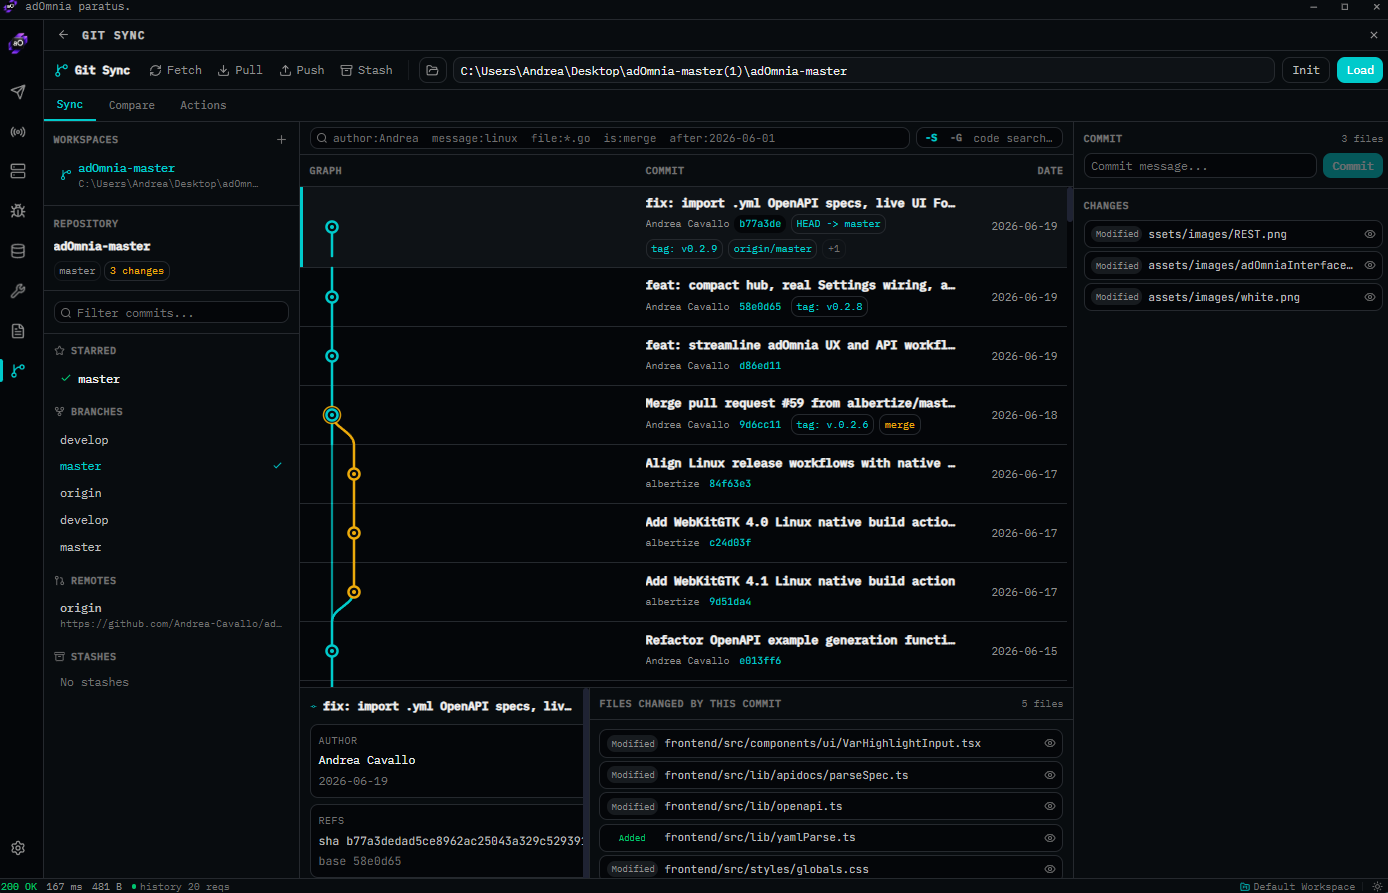
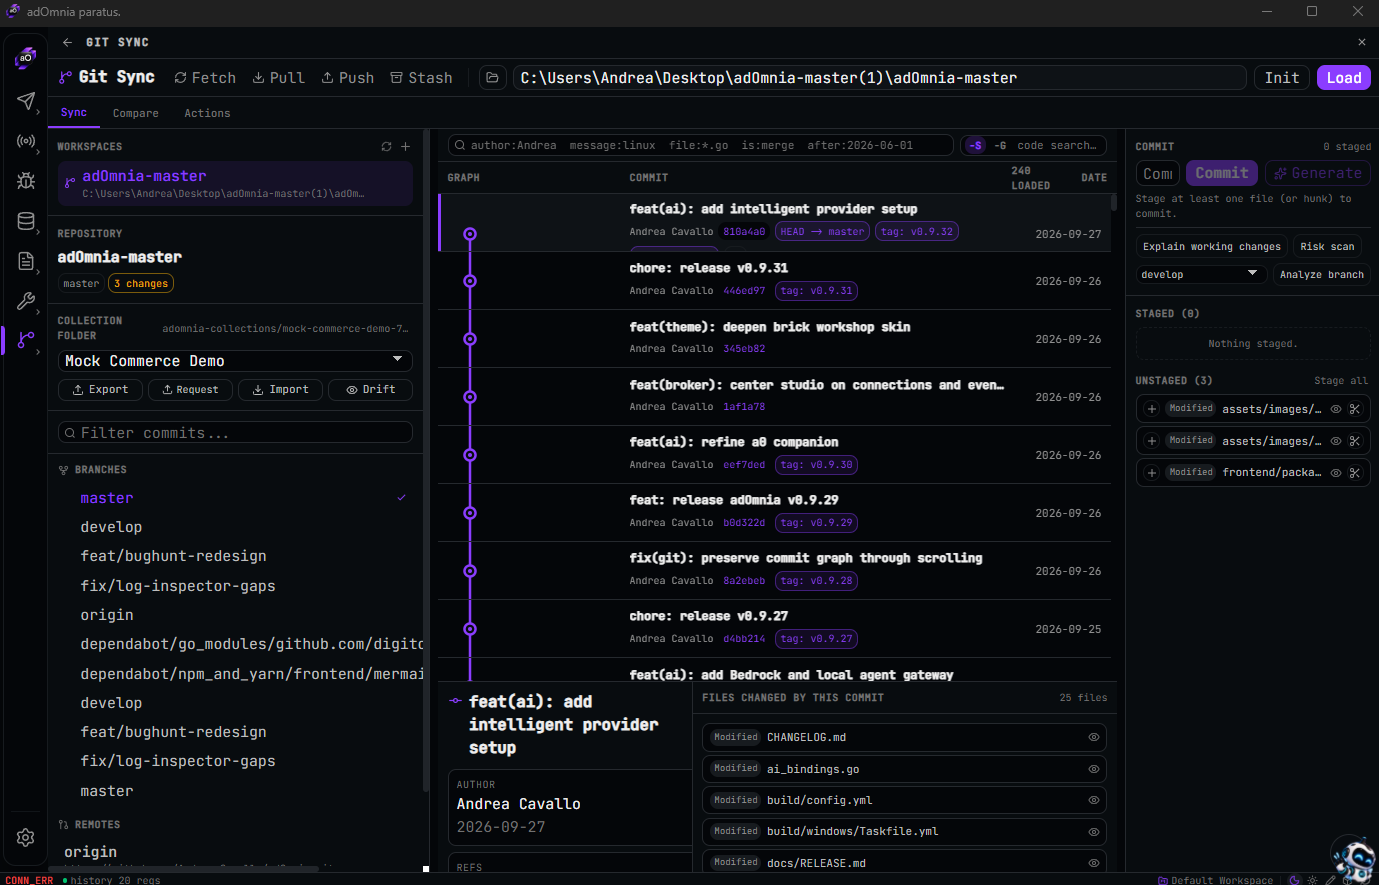
feat(ai): let a0 create workspace requests

diff --git a/frontend/src/lib/aiCompanion.ts b/frontend/src/lib/aiCompanion.ts
@@ -1,4 +1,4 @@
-import type { Collection, RequestItem, TreeNode } from '@/lib/types'
+import { blankKVRow, blankRequest, type Collection, type HttpMethod, type RequestItem, type TreeNode } from '@/lib/types'
 import type { AppSettings } from '@/stores/settings'
 
 export type CompanionMood = 'happy' | 'thinking' | 'concerned'
@@ -11,11 +11,21 @@ export interface HeaderSuggestion {
   reason?: string
 }
 
+export interface CreateRequestAction {
+  type: 'create-request'
+  name: string
+  method: HttpMethod
+  url: string
+  headers: HeaderSuggestion[]
+  body?: string
+}
+
 export interface CompanionReply {
   reply: string
   mood: CompanionMood
   headerSuggestions: HeaderSuggestion[]
   actions: Array<'open-flow' | 'open-docs'>
+  workspaceActions: CreateRequestAction[]
 }
 
 /** a0 is available only for a provider/model pair the user has explicitly tested. */
@@ -75,6 +85,65 @@ function safeHeaders(value: unknown): HeaderSuggestion[] {
   }).slice(0, 8)
 }
 
+const HTTP_METHODS = new Set<HttpMethod>(['GET', 'QUERY', 'POST', 'PUT', 'PATCH', 'DELETE', 'HEAD', 'OPTIONS', 'CONNECT', 'TRACE', 'WS', 'SOAP'])
+
+function safeRequestURL(value: unknown): string {
+  if (typeof value !== 'string') return ''
+  const url = value.trim().slice(0, 4096)
+  if (!url || /[\r\n]/.test(url)) return ''
+  if (url.includes('{{')) return url
+  return /^(?:https?|wss?):\/\//i.test(url) ? url : ''
+}
+
+function safeWorkspaceActions(value: unknown): CreateRequestAction[] {
+  if (!Array.isArray(value)) return []
+  return value.flatMap((item) => {
+    if (!item || typeof item !== 'object') return []
+    const candidate = item as Record<string, unknown>
+    if (candidate.type !== 'create-request') return []
+    const method = typeof candidate.method === 'string' ? candidate.method.toUpperCase() as HttpMethod : 'GET'
+    const url = safeRequestURL(candidate.url)
+    if (!HTTP_METHODS.has(method) || !url) return []
+    const rawName = typeof candidate.name === 'string' ? candidate.name.trim() : ''
+    const name = rawName.replace(/[\r\n\t]+/g, ' ').slice(0, 120) || `${method} request`
+    const body = typeof candidate.body === 'string' ? candidate.body.slice(0, 1_000_000) : undefined
+    return [{ type: 'create-request' as const, name, method, url, headers: safeHeaders(candidate.headers), body }]
+  }).slice(0, 3)
+}
+
+export function materializeCompanionRequest(action: CreateRequestAction): RequestItem {
+  const request = blankRequest(action.method, action.name)
+  request.url = action.url
+  request.headers = action.headers.length
+    ? action.headers.map((header) => ({ ...blankKVRow(), key: header.key, value: header.value, enabled: true }))
+    : request.headers
+  if (action.body !== undefined && !['GET', 'HEAD'].includes(action.method)) {
+    request.bodies[0] = { ...request.bodies[0], type: 'raw', raw: action.body, lang: 'json' }
+  }
+  return request
+}
+
+/** Fast, deterministic handling for the common root greeting-request command.
+ * The model still handles arbitrary request designs through workspaceActions,
+ * but this exact intent must work even when a provider ignores the JSON schema. */
+export function inferCompanionRequestAction(value: string): CreateRequestAction | null {
+  const text = value.normalize('NFD').replace(/[\u0300-\u036f]/g, '').toLowerCase()
+  if (/\b(?:non|not|don\s*t|do not|never)\b.{0,40}\b(?:crea|creare|create|add)\b/.test(text)) return null
+  const asksToCreate = /\b(?:crea|creami|creare|aggiungi|nuov[ao]|create|add|new)\b/.test(text)
+  const describesRequest = /\b(?:api|endpoint|request|richiesta)\b/.test(text)
+  const asksForRoot = /(?:fuori|outside).{0,20}(?:collection|collezion)|(?:workspace\s+root|root\s+level|livello\s+root)/.test(text)
+  const isGreeting = /\b(?:saluta|saluto|ciao|hello|greeting|greet)\b/.test(text)
+  if (!asksToCreate || !describesRequest || !asksForRoot || !isGreeting) return null
+  const explicitURL = value.match(/https?:\/\/[^\s)\]}]+/i)?.[0]
+  return {
+    type: 'create-request',
+    name: 'Greeting API',
+    method: 'GET',
+    url: explicitURL ?? 'http://127.0.0.1:3000/hello',
+    headers: [{ key: 'Accept', value: 'application/json' }],
+  }
+}
+
 export function parseCompanionReply(raw: string): CompanionReply {
   try {
     const parsed = JSON.parse(unwrapJSON(raw)) as Record<string, unknown>
@@ -87,9 +156,10 @@ export function parseCompanionReply(raw: string): CompanionReply {
       mood,
       headerSuggestions: safeHeaders(parsed.headerSuggestions),
       actions: [...new Set(actions)],
+      workspaceActions: safeWorkspaceActions(parsed.workspaceActions),
     }
   } catch {
-    return { reply: raw.trim() || 'I could not read that response. Please try again.', mood: 'concerned', headerSuggestions: [], actions: [] }
+    return { reply: raw.trim() || 'I could not read that response. Please try again.', mood: 'concerned', headerSuggestions: [], actions: [], workspaceActions: [] }
   }
 }
 
@@ -103,7 +173,7 @@ function requestOutline(nodes: TreeNode[], output: string[], prefix = '') {
   }
 }
 
-export function buildCompanionPrompt(message: string, collections: Collection[], activeRequest?: RequestItem): { system: string; user: string } {
+export function buildCompanionPrompt(message: string, collections: Collection[], activeRequest?: RequestItem, workspaceActionsEnabled = false): { system: string; user: string } {
   const outline: string[] = []
   collections.forEach((collection) => requestOutline(collection.children, outline, `${collection.name}/`))
   const activeContext = activeRequest
@@ -113,11 +183,16 @@ export function buildCompanionPrompt(message: string, collections: Collection[],
     system: [
       'You are a0, the friendly adOmnia desktop API assistant.',
       'Always reply in English. Be generic and never assume or invent the user’s name.',
-      'adOmnia is local-first. Never claim you performed an action. Explain proposed changes and require the user to click an explicit UI action before any mutation.',
+      workspaceActionsEnabled
+        ? 'Agent actions are enabled. When the user explicitly asks to create a request outside collections, return one create-request workspace action. Do not merely explain which button the user should click.'
+        : 'Agent actions are disabled. Do not return workspaceActions or claim that you changed the workspace; explain that Agent actions can be enabled in Settings → AI Engine.',
       'You may help design flows, explain APIs, improve OpenAPI documentation, and suggest headers.',
       'Never request or expose credentials, tokens, cookie values, or secrets. Suggest placeholders such as {{API_TOKEN}} instead.',
-      'Return only JSON: {"reply":"concise Markdown-free text","mood":"happy|thinking|concerned","headerSuggestions":[{"key":"Header-Name","value":"value or {{PLACEHOLDER}}","reason":"why"}],"actions":["open-flow"|"open-docs"]}.',
+      'Return only JSON: {"reply":"concise Markdown-free text","mood":"happy|thinking|concerned","headerSuggestions":[{"key":"Header-Name","value":"value or {{PLACEHOLDER}}","reason":"why"}],"actions":["open-flow"|"open-docs"],"workspaceActions":[{"type":"create-request","name":"Request name","method":"GET","url":"http://127.0.0.1:3000/hello","headers":[],"body":"optional body"}]}.',
       'Only suggest headers when the user explicitly asks for them. Use actions only when the user explicitly asks for a flow or API documentation.',
+      workspaceActionsEnabled
+        ? 'Use workspaceActions only for an explicit mutation request. A create-request action is saved at workspace root, outside user collections, and opened automatically.'
+        : 'Return an empty workspaceActions array.',
     ].join('\n'),
     user: `User request:\n${message}\n\nWorkspace API outline (method, URL and names only):\n${outline.join('\n') || '(no saved requests)' }${activeContext}`,
   }

diff --git a/frontend/src/components/assistant/AICompanion.tsx b/frontend/src/components/assistant/AICompanion.tsx
@@ -2,7 +2,7 @@ import { useEffect, useMemo, useRef, useState } from 'react'
 import { ChevronDown, FileText, Loader2, Maximize2, Minimize2, Send, WandSparkles, X } from 'lucide-react'
 import * as AIEngine from '@/wailsjs/go/main/AIEngine'
 import { ensureAIConfigured } from '@/lib/aiEngine'
-import { buildCompanionPrompt, COMPANION_WELCOME, isAICompanionAvailable, isBugHuntPlayIntent, parseCompanionReply, type CompanionMood, type HeaderSuggestion } from '@/lib/aiCompanion'
+import { buildCompanionPrompt, COMPANION_WELCOME, inferCompanionRequestAction, isAICompanionAvailable, isBugHuntPlayIntent, materializeCompanionRequest, parseCompanionReply, type CompanionMood, type HeaderSuggestion } from '@/lib/aiCompanion'
 import { blankKVRow } from '@/lib/types'
 import { useAppStore } from '@/stores/app'
 import { useCollectionsStore } from '@/stores/collections'
@@ -35,9 +35,11 @@ function Sprite({ mood, loading, size, resting, greeting = false }: { mood: Comp
 export function AICompanion() {
   const ai = useSettingsStore((state) => state.settings.ai)
   const collections = useCollectionsStore((state) => state.collections)
+  const addQuickRequest = useCollectionsStore((state) => state.addQuickRequest)
   const activeTabId = useTabsStore((state) => state.activeTabId)
   const tabs = useTabsStore((state) => state.tabs)
   const updateRequest = useTabsStore((state) => state.updateRequest)
+  const openTab = useTabsStore((state) => state.openTab)
   const setActiveRail = useAppStore((state) => state.setActiveRail)
   const [open, setOpen] = useState(false)
   const [expanded, setExpanded] = useState(false)
@@ -101,14 +103,41 @@ export function AICompanion() {
       document.dispatchEvent(new Event('adomnia:open-bug-hunt'))
       return
     }
+    const localRequestAction = ai.workspaceActionsEnabled ? inferCompanionRequestAction(text) : null
+    if (localRequestAction) {
+      const request = materializeCompanionRequest(localRequestAction)
+      const collectionId = addQuickRequest(request)
+      openTab(request, collectionId)
+      setActiveRail('collections')
+      setMessages((current) => [...current, userMessage, {
+        id: crypto.randomUUID(),
+        role: 'assistant',
+        mood: 'happy',
+        text: 'Created the Greeting API at workspace root and opened it for review.',
+      }])
+      return
+    }
     setMessages((current) => [...current, userMessage])
     setLoading(true)
     try {
-      const prompt = buildCompanionPrompt(text, collections, activeTab?.request)
+      const prompt = buildCompanionPrompt(text, collections, activeTab?.request, ai.workspaceActionsEnabled)
       await ensureAIConfigured()
       const raw = await AIEngine.Complete(prompt.system, prompt.user, 1800)
       const reply = parseCompanionReply(raw)
-      setMessages((current) => [...current, { id: crypto.randomUUID(), role: 'assistant', text: reply.reply, mood: reply.mood, headers: reply.headerSuggestions, actions: reply.actions }])
+      let createdRequests = 0
+      if (ai.workspaceActionsEnabled) {
+        for (const action of reply.workspaceActions) {
+          const request = materializeCompanionRequest(action)
+          const collectionId = addQuickRequest(request)
+          openTab(request, collectionId)
+          createdRequests += 1
+        }
+      }
+      if (createdRequests > 0) setActiveRail('collections')
+      const actionResult = createdRequests > 0
+        ? `\n\nCreated ${createdRequests === 1 ? 'the request' : `${createdRequests} requests`} at workspace root and opened ${createdRequests === 1 ? 'it' : 'the last one'} for review.`
+        : ''
+      setMessages((current) => [...current, { id: crypto.randomUUID(), role: 'assistant', text: `${reply.reply}${actionResult}`, mood: reply.mood, headers: reply.headerSuggestions, actions: reply.actions }])
     } catch (error) {
       setMessages((current) => [...current, { id: crypto.randomUUID(), role: 'assistant', mood: 'concerned', text: `I couldn’t reach the configured AI provider. ${error instanceof Error ? error.message : String(error)}` }])
     } finally {

diff --git a/frontend/src/lib/aiCompanion.test.ts b/frontend/src/lib/aiCompanion.test.ts
@@ -1,11 +1,51 @@
 import { describe, expect, it } from 'vitest'
-import { buildCompanionPrompt, COMPANION_WELCOME, isAICompanionAvailable, isBugHuntPlayIntent, parseCompanionReply } from './aiCompanion'
+import { buildCompanionPrompt, COMPANION_WELCOME, inferCompanionRequestAction, isAICompanionAvailable, isBugHuntPlayIntent, materializeCompanionRequest, parseCompanionReply } from './aiCompanion'
 import { blankRequest } from './types'
 
 describe('a0 companion protocol', () => {
   it('uses a generic English welcome and requires English replies', () => {
     expect(COMPANION_WELCOME).toBe('Hi — what would you like to work on?')
     expect(buildCompanionPrompt('ciao', [], undefined).system).toContain('Always reply in English')
+  })
+
+  it('authorizes structured workspace mutations only when agent actions are enabled', () => {
+    const readOnly = buildCompanionPrompt('Create a greeting API.', [], undefined, false).system
+    const agent = buildCompanionPrompt('Create a greeting API.', [], undefined, true).system
+
+    expect(readOnly).toContain('Do not return workspaceActions')
+    expect(agent).toContain('create-request')
+    expect(agent).toContain('explicitly asks')
+  })
+
+  it('materializes a safe root request from a structured assistant action', () => {
+    const reply = parseCompanionReply(JSON.stringify({
+      reply: 'Created a greeting request.',
+      mood: 'happy',
+      headerSuggestions: [],
+      actions: [],
+      workspaceActions: [{
+        type: 'create-request',
+        name: 'Greeting API',
+        method: 'GET',
+        url: 'http://127.0.0.1:3000/hello',
+        headers: [{ key: 'Accept', value: 'application/json' }],
+      }],
+    }))
+
+    expect(reply.workspaceActions).toHaveLength(1)
+    const request = materializeCompanionRequest(reply.workspaceActions[0])
+    expect(request).toMatchObject({ name: 'Greeting API', method: 'GET', url: 'http://127.0.0.1:3000/hello' })
+    expect(request.headers[0]).toMatchObject({ key: 'Accept', value: 'application/json', enabled: true })
+  })
+
+  it('handles the explicit Italian greeting-request command without relying on the provider', () => {
+    expect(inferCompanionRequestAction('Creami una API che ti saluta, nuova fuori dalle collection')).toMatchObject({
+      type: 'create-request',
+      name: 'Greeting API',
+      method: 'GET',
+      url: 'http://127.0.0.1:3000/hello',
+    })
+    expect(inferCompanionRequestAction('Non creare una greeting API fuori dalle collection')).toBeNull()
   })
 
   it('accepts only safe, user-reviewable actions and headers', () => {

diff --git a/frontend/src/components/settings/AISettings.tsx b/frontend/src/components/settings/AISettings.tsx
@@ -369,6 +369,13 @@ export function AISettings() {
         </div>
       </section>
 
+      <section className="grid grid-cols-[minmax(220px,1fr)_minmax(520px,2fr)] items-center border-b border-border-1 px-8 py-4 max-lg:grid-cols-1 max-lg:gap-3 max-lg:px-5">
+        <div><h3 className="text-sm font-semibold text-text-1">Agent actions</h3><p className="mt-1 text-[11px] text-text-4">Choose whether a0 may act on explicit workspace requests.</p></div>
+        <div className="rounded-lg border border-border-2 bg-surface-1 px-4">
+          <Toggle label="Allow a0 to create and update workspace items" desc="When enabled, explicit chat requests can create root API requests and open them for review. Credentials and secret values remain protected." checked={ai.workspaceActionsEnabled} onChange={(workspaceActionsEnabled) => updateAi({ workspaceActionsEnabled })} />
+        </div>
+      </section>
+
       <div className="grid min-h-0 flex-1 grid-cols-[290px_minmax(0,1fr)] max-lg:grid-cols-1">
         <aside className="border-r border-border-1 px-6 py-6 max-lg:border-b max-lg:border-r-0">
           <h3 className="text-base font-semibold text-text-1">Providers</h3><p className="mt-1 text-[11px] text-text-4">Choose a provider to configure.</p>

diff --git a/frontend/src/stores/settings.ts b/frontend/src/stores/settings.ts
@@ -125,6 +125,8 @@ export interface AppSettings {
     gatewayEnabled: boolean
     /** Stable loopback port used by OpenCode, Pi, and other local clients. */
     gatewayPort: number
+    /** Explicit permission for a0 to apply supported mutations to the local workspace. */
+    workspaceActionsEnabled: boolean
   }
   features: {
     pluginsEnabled: boolean
@@ -179,7 +181,7 @@ function migrateAIModel(ai: AppSettings['ai']): AppSettings['ai'] {
 }
 
 const defaultSettings: AppSettings = {
-  version: 10,
+  version: 11,
   general: {
     confirmBeforeClosingDirtyTabs: true,
     restoreTabsOnStartup: true,
@@ -268,6 +270,7 @@ const defaultSettings: AppSettings = {
     modelCatalogs: {},
     gatewayEnabled: false,
     gatewayPort: 11435,
+    workspaceActionsEnabled: false,
   },
   features: {
     pluginsEnabled: false,

diff --git a/frontend/src/components/settings/AISettings.test.ts b/frontend/src/components/settings/AISettings.test.ts
@@ -17,4 +17,10 @@ describe('AI Engine settings layout', () => {
     expect(source).toContain('process variables → active adOmnia Environment')
     expect(source).toContain('standard `.env` files')
   })
+
+  it('offers an explicit agent-actions permission', () => {
+    expect(source).toContain('Agent actions')
+    expect(source).toContain('Allow a0 to create and update workspace items')
+    expect(source).toContain('workspaceActionsEnabled')
+  })
 })

diff --git a/docs/releases/v0.9.33.md b/docs/releases/v0.9.33.md
@@ -1,0 +1,56 @@
+# v0.9.33 — a0 can act on the workspace
+
+## Agent actions
+
+- Settings → AI Engine now includes an explicit **Agent actions** permission.
+  It controls whether a0 may apply supported mutations requested in chat.
+- With permission disabled, a0 remains advisory and explains that Agent actions
+  must be enabled. Enabling it does not expose credentials or grant arbitrary
+  filesystem access.
+- With permission enabled, a0 can return validated workspace actions instead of
+  telling the user to recreate its suggestion manually.
+
+## Root API requests
+
+- The first supported workspace mutation is `create-request`.
+- a0 can specify a request name, HTTP method, URL, safe headers and an optional
+  body. adOmnia validates and bounds each field before creating anything.
+- Created requests use the existing Quick Requests storage path, so they appear
+  at workspace root outside user collections and remain compatible with current
+  workspace persistence.
+- The new request opens immediately for review; a0 reports success only after
+  the local mutation has completed.
+
+## Greeting API command
+
+- Explicit English and Italian commands to create a greeting API outside the
+  collections have a fast deterministic handler.
+- The command creates `Greeting API` as
+  `GET http://127.0.0.1:3000/hello` with an `Accept: application/json` header.
+- Negative requests such as “non creare” are ignored by the mutation handler.
+- This deterministic path avoids falling back to unhelpful setup instructions
+  when a provider does not follow the structured JSON schema.
+
+## DeepSeek verification
+
+- A live test used the configured `DEEPSEEK_API_KEY` through adOmnia's real Go
+  AI engine and official DeepSeek endpoint.
+- The connection check returned `OK`.
+- DeepSeek understood the Italian greeting request and returned exactly one
+  structured `create-request` action.
+- The temporary live test was removed after verification so ordinary CI runs do
+  not contact or consume a paid provider.
+
+## Additional updates
+
+- Public dark, light and Git interface screenshots have been refreshed.
+- The settings schema migrates safely with Agent actions disabled by default;
+  the user must opt in explicitly.
+
+## Verification
+
+- 684 frontend tests pass across 131 test files.
+- TypeScript and the production Vite build pass.
+- `go build ./...` and the complete `go test ./...` suite pass.
+- The Agent actions toggle was visually checked and activated in the local
+  development preview.

diff --git a/CHANGELOG.md b/CHANGELOG.md
@@ -4,6 +4,26 @@ All notable changes to adOmnia are documented here.
 
 This project follows a pragmatic release log format inspired by Keep a Changelog. Versions are created from Git tags such as `v0.1.0`; GitHub Actions builds the Windows, Linux, and macOS artifacts automatically.
 
+## [0.9.33] - 2026-09-27
+
+### Added
+- **Agent actions:** AI Engine now has an explicit permission that lets a0 create and update supported workspace items when the user asks for a mutation.
+- **Root request creation:** structured `create-request` actions are validated, converted into native adOmnia requests, saved outside user collections and opened automatically for review.
+
+### Changed
+- **Useful instead of advisory:** when Agent actions are enabled, a0 is instructed to perform supported explicit requests instead of explaining which UI button the user should click.
+- **Refreshed product screenshots:** the dark, light and Git interface artwork used by the public project has been updated.
+
+### Fixed
+- **Greeting API command:** English and Italian requests to create a greeting API at workspace root have a deterministic local path, so the action still succeeds if a provider ignores the structured-response schema.
+- **Mutation safety:** action URLs, methods, names, headers and bodies are bounded and validated before they can reach the local workspace. Credentials remain excluded from the action protocol.
+
+### Verified
+- A live DeepSeek request using the environment credential completed successfully, and DeepSeek returned the expected `create-request` action for the Italian greeting prompt.
+- All frontend tests, the production frontend build, `go build ./...` and `go test ./...` pass.
+
+Full release notes: [v0.9.33](docs/releases/v0.9.33.md).
+
 ## [0.9.32] - 2026-09-27
 
 ### Added

diff --git a/docs/RELEASE.md b/docs/RELEASE.md
@@ -2,6 +2,12 @@
 
 adOmnia releases are driven by Git tags and GitHub Actions.
 
+## v0.9.33 release notes: a0 can act on the workspace
+
+See [the full v0.9.33 notes](releases/v0.9.33.md): explicit Agent actions,
+validated root request creation, a deterministic greeting-API command and a
+live DeepSeek verification of the complete structured-action response.
+
 ## v0.9.32 release notes: smarter AI setup and native DeepSeek
 
 See [the full v0.9.32 notes](releases/v0.9.32.md): native DeepSeek support,
